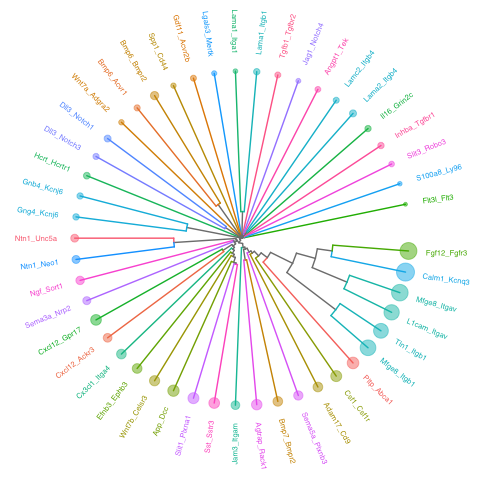
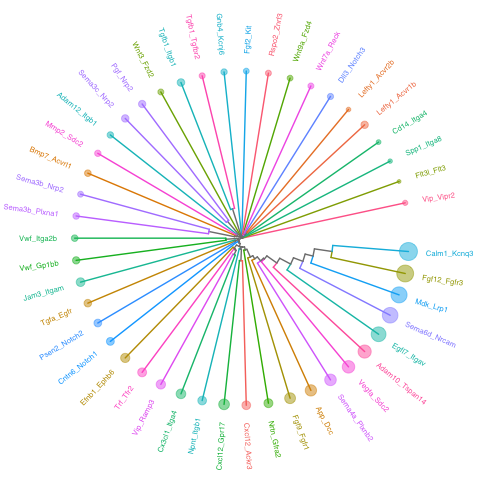
get_LRdb_small() added.
Also, the descriptions for LRdb_human and LRdb_mouse were revised.

diff --git a/README.md b/README.md
@@ -57,55 +57,37 @@ library(spatialCCC)
 
 ### Load built-in LRdb
 
+This LRdb is downloaded from CellTalkDB:
+\[<http://tcm.zju.edu.cn/celltalkdb/download.php>\]. You can see the
+detail by:
+
 ``` r
-LRdb_mm <- 
-  get_LRdb("mouse")
+?LRdb_human
+?LRdb_mouse
+```
 
-LRdb_m <-
-  LRdb_mm %>%
-  slice_sample(n = 100)
+We also created getter function, get_LRdb(), to retrieve the database.
 
-LR_pair_list <- c(
-  "Apoe_Sdc1",
-  "App_Dcc",
-  "Cxcl12_Ackr3",
-  "Jam3_Itgam",
-  "Cx3cl1_Itga4")
-
-LRdb_m <-
-  rbind(LRdb_m,
-        dplyr::filter(LRdb_mm, LR %in% LR_pair_list)) %>%
-  distinct()
+``` r
+LRdb_m <- 
+  get_LRdb_small("mouse")
 
 LRdb_m %>% 
   arrange(ligand_gene_symbol, receptor_gene_symbol)
-#> # A tibble: 104 × 10
+#> # A tibble: 105 × 10
 #>    LR    ligand_gene_symbol receptor_gene_symbol ligand_gene_id receptor_gene_id
 #>    <chr> <chr>              <chr>                         <dbl>            <dbl>
-<<<<<<< HEAD
 #>  1 Adam… Adam10             Fcer2a                        11487            14128
-#>  2 Adam… Adam10             Gpnmb                         11487            93695
-#>  3 Adam… Adam17             Cd9                           11491            12527
-#>  4 Adam… Adam2              Itgb7                         11495            16421
-#>  5 Agt_… Agt                Agtr1a                        11606            11607
-#>  6 Agtr… Agtrap             Rack1                         11610            14694
-#>  7 Angp… Angpt1             Tek                           11600            21687
-#>  8 Angp… Angpt2             Itgb2                         11601            16414
-#>  9 Angp… Angptl1            Tek                           72713            21687
-#> 10 Angp… Angptl8            Gpihbp1                      624219            68453
-=======
-#>  1 Ada_… Ada                Dpp4                          11486            13482
-#>  2 Adam… Adam10             Gpnmb                         11487            93695
-#>  3 Adm2… Adm2               Ramp3                        223780            56089
-#>  4 Afdn… Afdn               Nectin1                       17356            58235
-#>  5 Agt_… Agt                Agtr1a                        11606            11607
-#>  6 Agt_… Agt                Agtr1b                        11606            11608
-#>  7 Angp… Angpt1             Tek                           11600            21687
-#>  8 Anxa… Anxa1              Fpr2                          16952            14289
-#>  9 Apob… Apob               Lsr                          238055            54135
-#> 10 Apoe… Apoe               Sdc1                          11816            20969
->>>>>>> 16939c9b98f0e0e83448841f6c0f2ee91e5cc5e9
-#> # ℹ 94 more rows
+#>  2 Adam… Adam10             Tspan14                       11487            52588
+#>  3 Adam… Adam12             Itgb1                         11489            16412
+#>  4 Adam… Adam2              Itgb1                         11495            16412
+#>  5 Apob… Apob               Lrp6                         238055            16974
+#>  6 Apoe… Apoe               Sdc1                          11816            20969
+#>  7 App_… App                Dcc                           11820            13176
+#>  8 App_… App                Ngfr                          11820            18053
+#>  9 Artn… Artn               Gfra3                         11876            14587
+#> 10 Bmp7… Bmp7               Acvrl1                        12162            11482
+#> # ℹ 95 more rows
 #> # ℹ 5 more variables: ligand_ensembl_protein_id <chr>,
 #> #   receptor_ensembl_protein_id <chr>, ligand_ensembl_gene_id <chr>,
 #> #   receptor_ensembl_gene_id <chr>, evidence <chr>
@@ -136,11 +118,7 @@ ccc_tbl <- compute_spatial_ccc(spe = spe,
                                assay_name = "logcounts",
                                LRdb = LRdb_m)
 tictoc::toc()
-<<<<<<< HEAD
-#> 7.017 sec elapsed
-=======
-#> 7.105 sec elapsed
->>>>>>> 16939c9b98f0e0e83448841f6c0f2ee91e5cc5e9
+#> 7.251 sec elapsed
 
 # future::plan(future::sequential)
 ```
@@ -148,8 +126,7 @@ tictoc::toc()
 ``` r
 ccc_tbl %>% 
   dplyr::arrange(desc(LRscore))
-<<<<<<< HEAD
-#> # A tibble: 101,757 × 10
+#> # A tibble: 91,761 × 10
 #>    src          dst       d norm.d LR    ligand receptor LRscore weight WLRscore
 #>    <chr>        <chr> <dbl>  <dbl> <chr> <chr>  <chr>      <dbl>  <dbl>    <dbl>
 #>  1 AGAAGTGATTC… AATG…  138    1.01 Calm… Calm1  Kcnq3      0.858  0.986    0.846
@@ -162,23 +139,7 @@ ccc_tbl %>%
 #>  8 TTGCATGCTGA… ACAT…  137    1    Calm… Calm1  Kcnq3      0.855  1        0.855
 #>  9 AGATACCGGTG… ACAT…  138.   1.01 Calm… Calm1  Kcnq3      0.855  0.980    0.837
 #> 10 TTCTTATCCGC… AGTT…  138.   1.00 Calm… Calm1  Kcnq3      0.855  0.992    0.848
-#> # ℹ 101,747 more rows
-=======
-#> # A tibble: 113,420 × 10
-#>    src          dst       d norm.d LR    ligand receptor LRscore weight WLRscore
-#>    <chr>        <chr> <dbl>  <dbl> <chr> <chr>  <chr>      <dbl>  <dbl>    <dbl>
-#>  1 TAACTCCATGG… GACA…  137    1    Apoe… Apoe   Vldlr      0.864  1        0.864
-#>  2 GAGGTCCCAAA… GACA…  138.   1.01 Apoe… Apoe   Vldlr      0.856  0.987    0.845
-#>  3 TAACAAAGGGA… TACG…  138    1.01 Apoe… Apoe   Vldlr      0.856  0.986    0.844
-#>  4 TTCAAAGTCTC… TATT…  138.   1.00 Apoe… Apoe   Vldlr      0.856  0.992    0.849
-#>  5 GTCCCAACGTA… TATT…  138.   1.01 Apoe… Apoe   Vldlr      0.855  0.980    0.837
-#>  6 TTCCGCGTGAG… ATAA…  138.   1.01 Apoe… Apoe   Vldlr      0.854  0.980    0.837
-#>  7 CCATCGCAGTT… AATT…  138.   1.01 Apoe… Apoe   Vldlr      0.854  0.980    0.837
-#>  8 TGTTCGTATTG… AATT…  137    1    Apoe… Apoe   Vldlr      0.854  1        0.854
-#>  9 ATAAACGGACC… ATAA…  137    1    Apoe… Apoe   Vldlr      0.854  1        0.854
-#> 10 CCCGCGCAATG… GACA…  138    1.01 Apoe… Apoe   Vldlr      0.854  0.986    0.841
-#> # ℹ 113,410 more rows
->>>>>>> 16939c9b98f0e0e83448841f6c0f2ee91e5cc5e9
+#> # ℹ 91,751 more rows
 ```
 
 ### Convert CCC table to CCC graph
@@ -194,11 +155,7 @@ ccc_graph_list <-
   to_spatial_ccc_graph_list(ccc_tbl, sp_col_data, workers = 4)
 
 tictoc::toc()
-<<<<<<< HEAD
-#> to_spatical_ccc_graph ...: 12.265 sec elapsed
-=======
-#> to_spatical_ccc_graph ...: 13.492 sec elapsed
->>>>>>> 16939c9b98f0e0e83448841f6c0f2ee91e5cc5e9
+#> to_spatical_ccc_graph ...: 12.655 sec elapsed
 ```
 
 summarize_ccc_graph_metrics() summarize those graph metrics for each LR
@@ -211,47 +168,26 @@ ccc_graph_metrics_summary_df <-
   summarize_ccc_graph_metrics(ccc_graph_list)
 
 tictoc::toc()
-<<<<<<< HEAD
-#> 0.066 sec elapsed
-=======
-#> 0.067 sec elapsed
->>>>>>> 16939c9b98f0e0e83448841f6c0f2ee91e5cc5e9
+#> 0.061 sec elapsed
 ```
 
 ``` r
 ccc_graph_metrics_summary_df %>%
   arrange(graph_component_count)
-<<<<<<< HEAD
-#> # A tibble: 48 × 12
+#> # A tibble: 46 × 12
 #>    LR        graph_n_nodes graph_n_edges graph_component_count graph_motif_count
 #>    <chr>             <int>         <dbl>                 <dbl>             <int>
-#>  1 Calm1_Kc…          2697         11629                     3             24463
-#>  2 Mfge8_It…          2568          8167                     3             18869
-#>  3 Mfge8_It…          2556          9374                     3             20536
-#>  4 Tln1_Itg…          2359          6971                     3             15470
-#>  5 Fgf12_Fg…          2512          9821                     4             21180
-#>  6 L1cam_It…          2345          7629                     5             16831
-#>  7 Flt3l_Fl…            78            46                    32                14
-#>  8 Pltp_Abc…          1907          3555                    35              7087
-#>  9 Cxcl12_G…          1763          2760                    42              5310
-#> 10 App_Dcc            1989          3267                    42              8152
-#> # ℹ 38 more rows
-=======
-#> # A tibble: 53 × 12
-#>    LR        graph_n_nodes graph_n_edges graph_component_count graph_motif_count
-#>    <chr>             <int>         <dbl>                 <dbl>             <int>
-#>  1 Apoe_Vld…          2666          9078                     3             20960
-#>  2 Egfl7_It…          2338          6933                     3             15373
-#>  3 S100b_Al…          2657         11612                     3             24055
-#>  4 Clu_Lrp8           2527          6413                     6             15497
-#>  5 Cxcl12_I…          2163          5070                     8             10795
-#>  6 Efna3_Ep…          2193          7103                    11             15015
-#>  7 App_Adra…          2284          4922                    20             11788
-#>  8 Ntng1_Lr…          2175          5445                    21             12090
-#>  9 Sema4a_P…          1800          3511                    25              7024
-#> 10 Afdn_Nec…          1899          3915                    30              8028
-#> # ℹ 43 more rows
->>>>>>> 16939c9b98f0e0e83448841f6c0f2ee91e5cc5e9
+#>  1 Egfl7_It…          2338          6933                     3             15373
+#>  2 Calm1_Kc…          2697         11629                     3             24463
+#>  3 Fgf12_Fg…          2512          9821                     4             21180
+#>  4 Sema6d_N…          2511          8038                     4             18355
+#>  5 Mdk_Lrp1           2588          8606                     5             19447
+#>  6 Adam10_T…          2114          5046                     8             10890
+#>  7 Vegfa_Sd…          1991          4353                    13              9112
+#>  8 Sema4a_P…          1800          3511                    25              7024
+#>  9 Flt3l_Fl…            78            46                    32                14
+#> 10 Cxcl12_G…          1763          2760                    42              5310
+#> # ℹ 36 more rows
 #> # ℹ 7 more variables: graph_diameter <dbl>, graph_un_diameter <dbl>,
 #> #   graph_mean_dist <dbl>, graph_circuit_rank <dbl>, graph_reciprocity <dbl>,
 #> #   graph_clique_num <int>, graph_clique_count <int>
@@ -267,46 +203,25 @@ ccc_graph_group_metrics_summary_df <-
   summarize_ccc_graph_metrics(ccc_graph_list, level = "group")
 
 tictoc::toc()
-<<<<<<< HEAD
-#> 0.06 sec elapsed
-=======
-#> 0.065 sec elapsed
->>>>>>> 16939c9b98f0e0e83448841f6c0f2ee91e5cc5e9
+#> 0.056 sec elapsed
 ```
 
 ``` r
 ccc_graph_group_metrics_summary_df 
-<<<<<<< HEAD
-#> # A tibble: 3,330 × 12
+#> # A tibble: 3,501 × 12
 #>    LR         group group_n_nodes group_n_edges group_adhesion group_motif_count
 #>    <chr>      <int>         <int>         <dbl>          <dbl>             <int>
-#>  1 Agtrap_Ra…     4           158           294              0               691
-#>  2 Agtrap_Ra…    30            11            16              0                33
-#>  3 Agtrap_Ra…    15            24            28              0                76
-#>  4 Agtrap_Ra…     8            61            84              0               211
-#>  5 Agtrap_Ra…    26            13            14              0                25
-#>  6 Agtrap_Ra…     2           172           308              0               742
-#>  7 Agtrap_Ra…    22            16            18              0                44
-#>  8 Agtrap_Ra…    17            23            36              0                91
-#>  9 Agtrap_Ra…     1           184           344              0               846
-#> 10 Agtrap_Ra…    36             7             6              0                15
-#> # ℹ 3,320 more rows
-=======
-#> # A tibble: 3,962 × 12
-#>    LR         group group_n_nodes group_n_edges group_adhesion group_motif_count
-#>    <chr>      <int>         <int>         <dbl>          <dbl>             <int>
-#>  1 Sema4a_Pl…     1          1614          3312              0              6761
-#>  2 Sema4a_Pl…    11             5             5              0                 4
-#>  3 Sema4a_Pl…     5            12            15              0                25
-#>  4 Sema4a_Pl…     4            23            33              0                46
-#>  5 Sema4a_Pl…    13             4             3              0                 2
-#>  6 Sema4a_Pl…     6            12            18              0                17
-#>  7 Sema4a_Pl…     3            29            34              0                55
-#>  8 Sema4a_Pl…    12             5             4              0                 3
-#>  9 Sema4a_Pl…    17             3             2              0                 1
-#> 10 Sema4a_Pl…     2            34            38              0                57
-#> # ℹ 3,952 more rows
->>>>>>> 16939c9b98f0e0e83448841f6c0f2ee91e5cc5e9
+#>  1 Vwf_Itga2b     1            24            32              0                40
+#>  2 Vwf_Itga2b     2            16            18              0                22
+#>  3 Vwf_Itga2b    38             4             3              0                 3
+#>  4 Vwf_Itga2b    11             8             7              0                12
+#>  5 Vwf_Itga2b    39             4             3              0                 3
+#>  6 Vwf_Itga2b    18             6             6              0                 8
+#>  7 Vwf_Itga2b    12             8             7              0                 7
+#>  8 Vwf_Itga2b    62             3             2              0                 1
+#>  9 Vwf_Itga2b     6            11            13              0                23
+#> 10 Vwf_Itga2b    89             2             1              0                 0
+#> # ℹ 3,491 more rows
 #> # ℹ 6 more variables: group_diameter <dbl>, group_un_diameter <dbl>,
 #> #   group_mean_dist <dbl>, group_girth <dbl>, group_circuit_rank <dbl>,
 #> #   group_reciprocity <dbl>
@@ -370,11 +285,7 @@ cell_overlap_dist <-
   dist_cell_overlap_ccc_tbl(ccc_tbl)
 
 tictoc::toc()
-<<<<<<< HEAD
-#> 0.342 sec elapsed
-=======
-#> 0.399 sec elapsed
->>>>>>> 16939c9b98f0e0e83448841f6c0f2ee91e5cc5e9
+#> 0.296 sec elapsed
 ```
 
 ``` r
@@ -384,11 +295,7 @@ cell_overlap_lf <-
   lf_cell_overlap_ccc_tbl(ccc_tbl)
 
 tictoc::toc()
-<<<<<<< HEAD
-#> 0.306 sec elapsed
-=======
-#> 0.373 sec elapsed
->>>>>>> 16939c9b98f0e0e83448841f6c0f2ee91e5cc5e9
+#> 0.269 sec elapsed
 ```
 
 ``` r
@@ -424,7 +331,7 @@ high_cell_overlap_dist2 <-
   lf_to_dist()
 
 tictoc::toc()
-#> 0.006 sec elapsed
+#> 0.007 sec elapsed
 ```
 
 ``` r
@@ -471,57 +378,3 @@ ape::as.phylo(hclus.res) %>%
 ```
 
 <img src="man/figures/README-LR-similarity-circular-dendrogram-1.png" width="100%" />
-<<<<<<< HEAD
-=======
-
-``` r
-gp_hex <-
-  ccc_graph_list[[LR_of_interest]] %>%
-  plot_spatial_ccc_graph(
-    tissue_img = imgRaster(spe),
-    clip = TRUE,
-    node_color = "group",
-    node_size = 1,
-    edge_color = "group_n_edges",
-    edge_width = 0.5,
-    ghost_img = TRUE,
-    which_on_top = "edge"
-  ) +
-  theme(legend.position = "none")
-
-gp_hex
-```
-
-<img src="man/figures/README-prep-ccc-graph-for-hex-sticker-1.png" width="100%" />
-
-``` r
-library(hexSticker)
-gp_hex_sticker <- sticker(
-  gp_hex,
-  package = "spatialCCC",
-  # p_color = "#1F1F1F",
-  p_color = "snow",
-  p_family = "sans",
-  p_fontface = "bold",
-  p_y = 1.1,
-  p_size = 40,
-  
-  s_x = 1.0,
-  s_y = 1.2,
-  s_width = 5,
-  s_height = 5*3/4,
-  
-  # h_fill = "purple",
-  h_color = "snow",
-  h_size = 1.5,
-  
-  # spotlight = TRUE,
-  # l_x = 1.0,
-  # l_y = 0.4,
-  # l_alpha = 0.25,
-  
-  filename = "spatialCCC.png",
-  dpi = 600
-)
-```
->>>>>>> 16939c9b98f0e0e83448841f6c0f2ee91e5cc5e9
